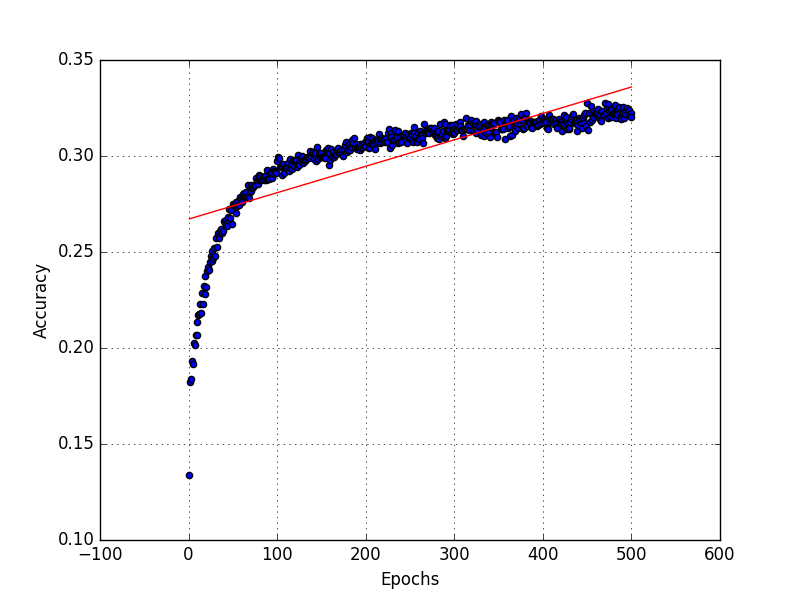
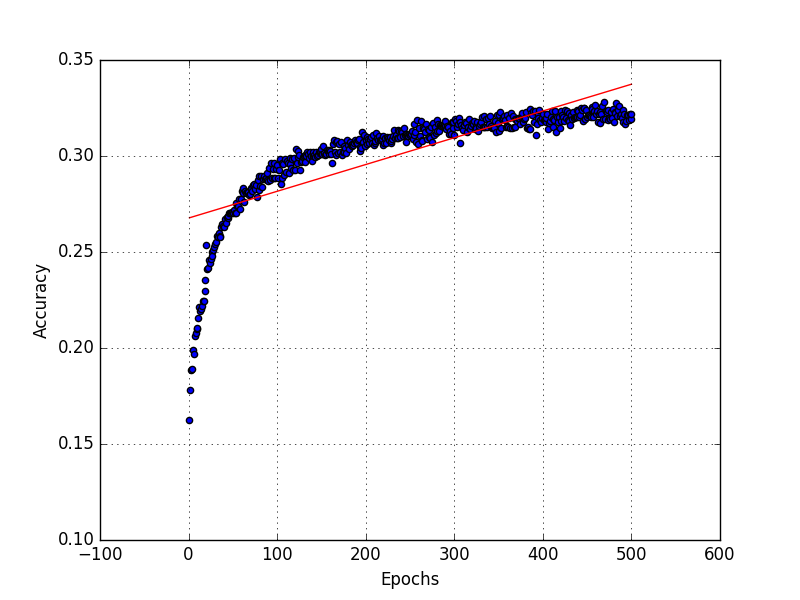
Ghosh pipeline working start to finish

Changed region(s): [[0.2188, 0.15, 0.8125, 0.66], [0.2188, 0.78, 0.25, 0.81], [0.2188, 0.69, 0.25, 0.72]]

diff --git a/v2/ghosh.py b/v2/ghosh.py
@@ -1,9 +1,11 @@
 #! /usr/bin/python
 import sys
+import os
 import logging
+import traceback
 
 from keras.optimizers import Adam
-from keras.models import Sequential
+from keras.models import Sequential, load_model
 from keras.layers import Dense, Activation, Convolution2D
 from keras.layers.core import Dropout, Flatten
 from keras.layers.pooling import MaxPooling2D
@@ -13,11 +15,12 @@ import numpy as np
 
 from sklearn.multiclass import OneVsRestClassifier
 from sklearn.discriminant_analysis import QuadraticDiscriminantAnalysis as qda
-from sklearn.metrics import f1_score
+from sklearn.metrics import f1_score, accuracy_score
+from sklearn.preprocessing import MultiLabelBinarizer
 
 
 import matplotlib
-matplotlib.use('Agg')   
+matplotlib.use('Agg')
 from matplotlib import pyplot as plt
 
 from difsa import difsa_repo
@@ -35,7 +38,7 @@ WEIGHT_STD = 0.3
 
 BATCH_SIZE = 64
 EPOCHS = 500
-    
+
 FULL_SIZE_1 = 500
 FULL_SIZE_2 = 100
 FULL_SIZE_3 = 12
@@ -44,8 +47,11 @@ REDUCED_IMAGE_SIZE = IMAGE_SIZE / 4.0
 
 EPSILON = 0.0001
 
-logging.basicConfig(filename='ghosh.log', level=logging.DEBUG, filemode='w')
+format = "%(levelname) -10s %(asctime)s %(module)s:%(lineno)s %(funcName)s %(message)s"
+
+logging.basicConfig(filename='ghosh.log', level=logging.DEBUG, filemode='w', format=format)
 log = logging.getLogger('GHOSH')
+
 
 class MetricAccumulator:
 
@@ -75,13 +81,15 @@ class MetricAccumulator:
     def average(self):
         return sum(self.data) / float(len(self.data))
 
+
 def getModelParams():
     return '---PARAMETERS---\n' + \
-           'Learning rate: ' + LEARNING_RATE + '\n' + \
-           '      Dropout: ' + DROPOUT + '\n' + \
-           '   Batch size: ' + BATCH_SIZE + '\n' + \
-           '       Epochs: ' + EPOCHS + '\n' + \
-           '  Kernel Size: ' + KERNEL_SIZE
+           'Learning rate: ' + str(LEARNING_RATE) + '\n' + \
+           '      Dropout: ' + str(DROPOUT) + '\n' + \
+           '   Batch size: ' + str(BATCH_SIZE) + '\n' + \
+           '       Epochs: ' + str(EPOCHS) + '\n' + \
+           '  Kernel Size: ' + str(KERNEL_SIZE)
+
 
 def multilabel_error(label, output):
     print("Label:  %s" % str(label))
@@ -90,9 +98,10 @@ def multilabel_error(label, output):
     p_hat = K.exp(output) / K.sum(K.exp(output))
     return - K.mean(K.sum(label * K.log(p_hat)))
 
+
 def make_plot(data, x_label, file):
 
-    xs = range(1,len(data)+1)
+    xs = range(1, len(data)+1)
     ys = data
 
     fit = np.polyfit(xs, ys, deg=1)
@@ -106,6 +115,17 @@ def make_plot(data, x_label, file):
     plt.grid(True)
     plt.savefig(file)
     plt.close()
+
+
+def ndarray_of_lists(ndarray2d):
+    length = len(ndarray2d)
+    new_array = np.empty((length,))
+
+    for i, array in enumerate(ndarray2d):
+        new_array[i] = array.tolist()
+
+    return new_array
+
 
 def train_model(training_repo):
     model = Sequential([
@@ -132,73 +152,92 @@ def train_model(training_repo):
     optimizer = Adam(lr=LEARNING_RATE)
     model.compile(optimizer=optimizer, loss=multilabel_error, metrics=['accuracy'])
 
-    classifier = OneVsRestClassifier(qda.QDA())
-
     losses = MetricAccumulator('Loss')
     accuracy = MetricAccumulator('Accuracy')
 
-    epoch = 1
+    training_repo.reset()
+    training_repo.reset_epoch()
 
     try:
         #Training loop
         while training_repo.get_epoch() <= EPOCHS:
 
-            if epoch != training_repo.get_epoch():
-                epoch = training_repo.get_epoch()
-
             images, facs = training_repo.get_data(BATCH_SIZE)
             images = np.asarray(images)
             facs = np.asarray(facs)
             loss = model.train_on_batch(np.asarray(images), np.asarray(facs))
-            log.info('Training info: loss = %s, epoch = %s' % (loss, epoch))
+            log.info('Training info: loss = %s, epoch = %s' % (loss, training_repo.get_epoch()))
 
-            losses.add(loss[0], epoch)
-            accuracy.add(loss[1], epoch)
+            losses.add(loss[0], training_repo.get_epoch())
+            accuracy.add(loss[1], training_repo.get_epoch())
 
         losses.flush()
         accuracy.flush()
 
+        try:
+            make_plot(losses.data, losses.name, 'ghosh_loss.png')
+            make_plot(accuracy.data, accuracy.name, 'ghosh_accuracy.png')
+        except Exception as e:
+            log.exception(e)
+
         return model
 
     except Exception as e:
-    log.exception(e)
+        log.exception(e)
 
 model = None
 training_repo = difsa_repo(TRAINING_DIR)
 validation_repo = difsa_repo(VALIDATION_DIR)
 
-if os.path.isfile(MODEL_PATH):
-    log.info("Loading model from file %s" % MODEL_PATH)
-    model = keras.models.load_model(MODEL_PATH)
-else:
-    model = train_model()
-    model.save(MODEL_PATH)
-    log.info("Saving model to %s" % MODEL_PATH)
+try:
+    if os.path.isfile(MODEL_PATH):
+        log.info("Loading model from file %s" % MODEL_PATH)
+        model = load_model(MODEL_PATH, custom_objects={'multilabel_error': multilabel_error})
+    else:
+        model = train_model(training_repo)
+        model.save(MODEL_PATH)
+        log.info("Saving model to %s" % MODEL_PATH)
+except Exception as e:
+    log.error(e)
 
-#Train QDA
-while training_repo.get_epoch() == epoch:
-    images, facs = training_repo.get_data(BATCH_SIZE)
+priors = training_repo.get_dataset_priors()
+print(priors)
+classifier = OneVsRestClassifier(qda(store_covariances=True))
+
+training_repo.reset()
+training_repo.reset_epoch()
+
+try:
+    images, facs = training_repo.get_dataset()
+    print(images.shape)
+    print(facs.shape)
     predictions = model.predict(images, batch_size=BATCH_SIZE)
     classifier.fit(predictions, facs)
+except Exception as e:
+    print("ERROR: " + str(e))
+    log.error(e)
+    exit()
 
 
 #Cross-validation test
 f1_score_acc = MetricAccumulator('F1 Score')
-
-while validation_repo.get_epoch() == 1:
-    images, facs = validation_repo.get_data(BATCH_SIZE)
-    nn_predictions = model.predict(images, batch_size=BATCH_SIZE)
-    class_preds = classifier.predict(nn_predictions)
-    f1_score_acc.add(f1_score(facs, class_preds), 1)
-
-f1_score_acc.flush()
-log.info(getModelParams())
-log.info('F1 Score Average: %d' % f1_score_acc.average())
-
+accuracy_acc = MetricAccumulator('Accuracy')
 
 try:
-    make_plot(losses.data, losses.name, 'ghosh_loss.png')
-    make_plot(accuracy.data, accuracy.name, 'ghosh_accuracy.png')
-except Exception as e:
-    log.exception(e)
+    while validation_repo.get_epoch() == 1:
+        images, facs = validation_repo.get_data(BATCH_SIZE*5)
+        nn_predictions = model.predict(images, batch_size=BATCH_SIZE)
+        class_preds = classifier.predict(nn_predictions)
+        print(class_preds)
+        f1_score_acc.add(f1_score(facs, class_preds, average=None), 1)
+        accuracy_acc.add(accuracy_score(facs, class_preds, normalize=True), 1)
 
+    f1_score_acc.flush()
+    accuracy_acc.flush()
+    log.info(getModelParams())
+    log.info('F1 Score Average: ' + str(f1_score_acc.average()))
+    log.info('Accuracy: ' + str(accuracy_acc.average()))
+except Exception as e:
+    traceback.print_exc()
+    print(e)
+    log.error(e)

diff --git a/v2/difsa.py b/v2/difsa.py
@@ -15,41 +15,71 @@ class difsa_repo:
         self.queue = deque(self.paths)
 
         self.numData = len(self.paths)
-        self.dataPresented = 0
+        self.epoch = 1
 
     def load_from_filepath(self, path):
 
-        with open(path, 'rb') as fp: 
+        with open(path, 'rb') as fp:
             face = face_pb2.Face()
             face.ParseFromString(fp.read())
             return face
 
+    def reset(self):
+        shuffle(self.paths)
+        self.queue = deque(self.paths)
+
+    def reset_epoch(self):
+        self.epoch = 1
+
     def get_dataset(self):
-        images = []
-        labels = []
+        images = None
+        labels = None
+        self.reset()
+        self.reset_epoch()
+        epoch = self.epoch
+        batch_size = 1000
 
-        for dataPath in self.paths:
-            absDataPath = os.path.join(self.root_path, dataPath)
-            data = self.load_from_filepath(absDataPath)
+        while True:
+            new_images, new_labels = self.get_data(batch_size)
 
-            image = list(bytearray(data.image))
-            image_norm = [0] * len(image)
-            for val, pixel in enumerate(image):
-                image_norm[val] = pixel / 255.0
+            if images is None:
+                images = new_images
+                labels = new_labels
+            else:
+                images = np.concatenate((images, new_images))
+                labels = np.concatenate((labels, new_labels))
 
-            image = np.asarray(image_norm)
+            if epoch != self.epoch:
+                break
 
-            image = image.reshape((1, 96, 96))
-            images.append(image)
-            labels.append(np.asarray(_convert_to_one_hot(data.facs)))
+        return images, labels
 
-        return np.array(images), np.array(labels)
+    def get_dataset_priors(self):
+        totals = [0] * 12
+        batch_size = 1000
+        self.reset()
+        self.reset_epoch()
+
+        while self.get_epoch() == 1:
+            images, facs = self.get_data(batch_size)
+
+            for i in range(len(facs[0])):
+                totals[i] += sum([fac[i] for fac in facs])
+
+        return [total / float(self.numData) for total in totals]
+
 
     def get_data(self, n):
-        self.dataPresented += n
 
-        dataPaths = [self.queue.popleft() for i in range(n)]
-        self.queue.extend(dataPaths)
+        dataPaths = []
+        try:
+            #Pop n items or until failure
+            for i in range(n):
+                dataPaths.append(self.queue.popleft())
+        except IndexError, e:
+            print("unable to pop")
+            self.epoch += 1
+            self.reset()
 
         images = []
         labels = []
@@ -69,15 +99,10 @@ class difsa_repo:
             images.append(image)
             labels.append(np.asarray(_convert_to_one_hot(data.facs)))
 
-            self.dataPresented += 1
-            if self.dataPresented % self.numData == 0:
-                shuffle(self.paths)
-                self.queue = deque(self.paths)
-
         return np.asarray(images), np.asarray(labels)
 
     def get_epoch(self):
-        return (self.dataPresented / self.numData) + 1
+        return self.epoch
 
 def _convert_to_one_hot(label):
     one_hot = [0] * len(label)
@@ -86,5 +111,3 @@ def _convert_to_one_hot(label):
             one_hot[j] = 1
 
     return one_hot
-
-
